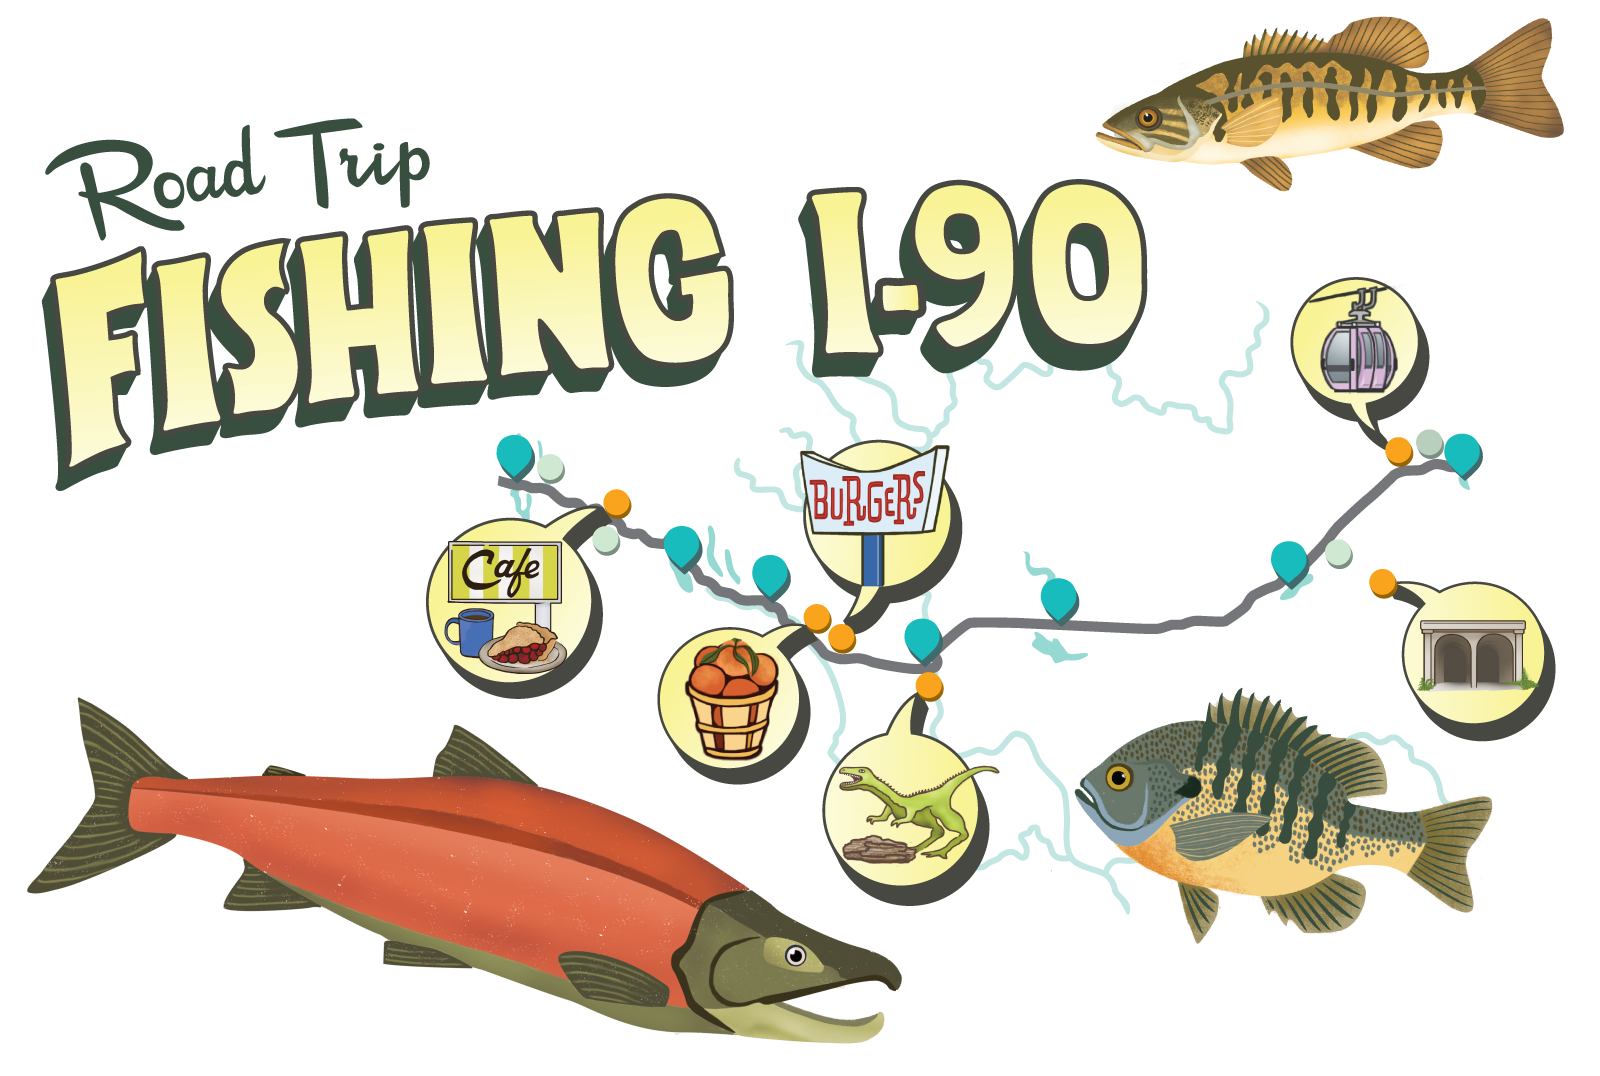
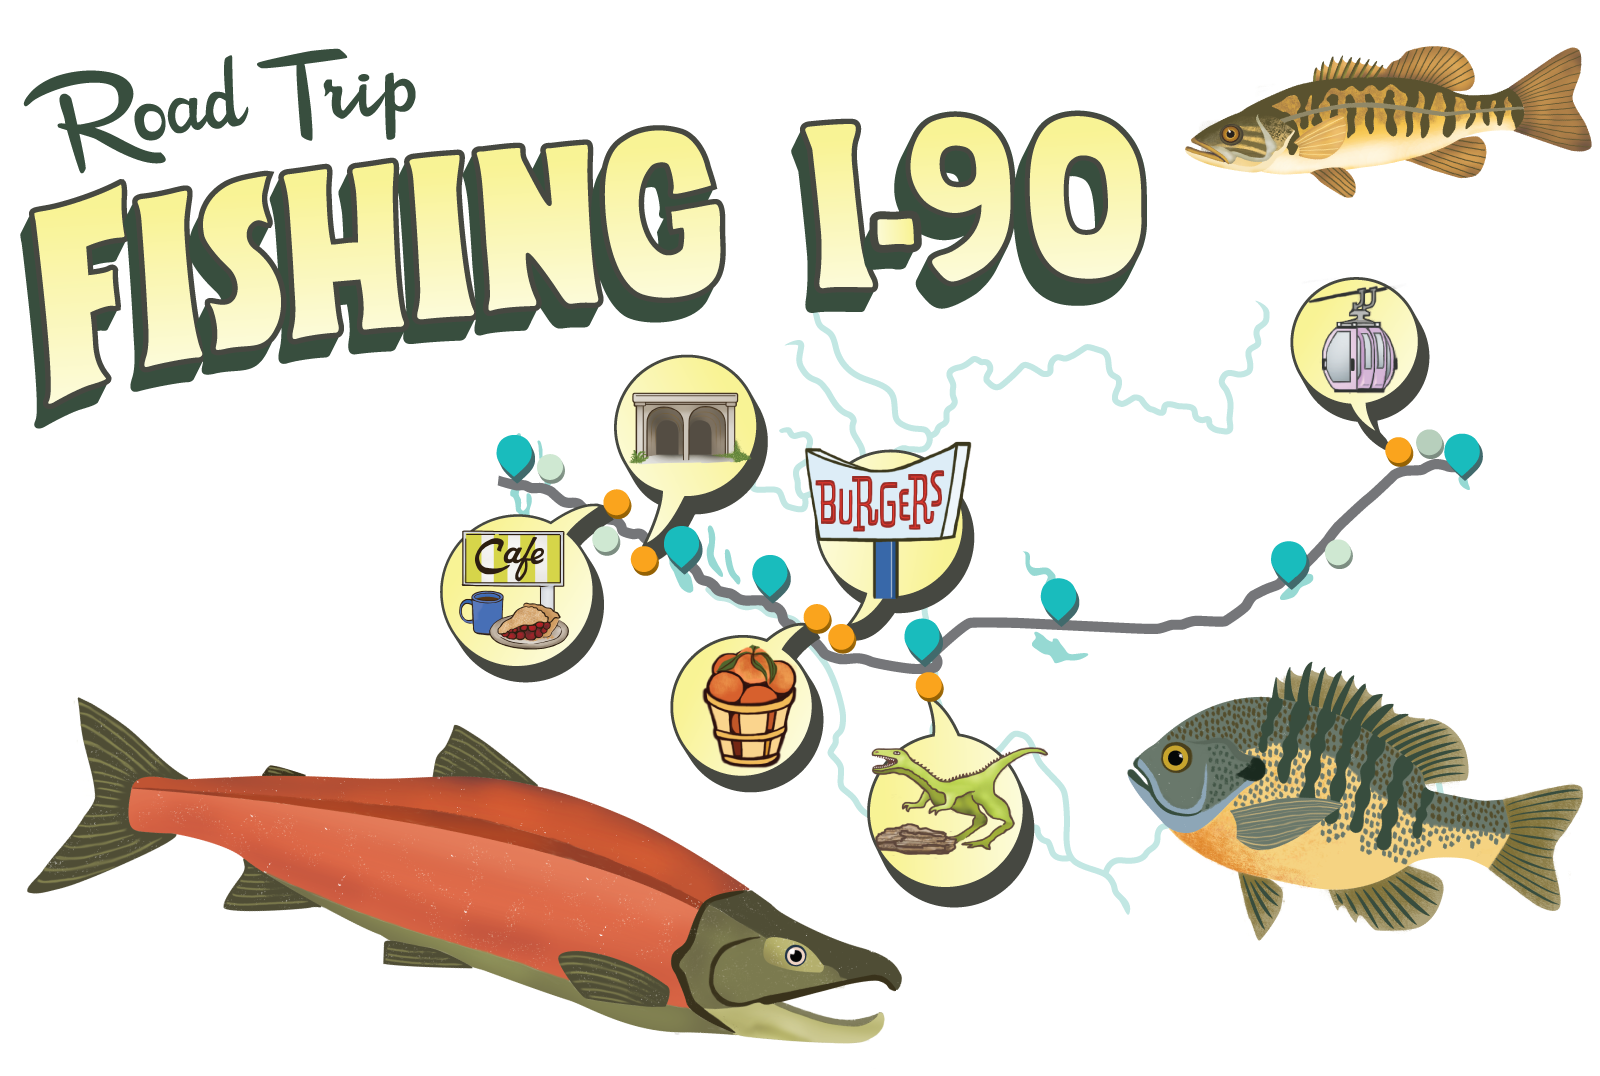
Moved JW Pioneer Trail

diff --git a/src/index.html b/src/index.html
@@ -39,6 +39,7 @@
         <div class="side-trip dot lake-sammamish"></div>
         <div class="side-trip dot rattlesnake-lake"></div>
         <div class="sightseeing dot twedes"></div>
+        <div class="sightseeing dot john-wayne-trail"></div>
         <div class="primary dot lake-keechelus"></div>
         <div class="primary dot yakima-river"></div>
         <div class="sightseeing dot thorp-fruit"></div>
@@ -48,7 +49,6 @@
         <div class="primary dot moses-lake"></div>
         <div class="primary dot sprague-lake"></div>
         <div class="side-trip dot fishtrap-lake"></div>
-        <div class="sightseeing dot john-wayne-trail"></div>
         <div class="primary dot liberty-lake"></div>
         <div class="side-trip dot spokane-river"></div>
         <div class="sightseeing dot spokane-river-trail"></div>
@@ -130,11 +130,20 @@
               
           </div>
           
-          <aside class="sidebar ad">
-            <%= t.include("partials/_ad.html", {type: "square"}) %>
-          </aside>
-          
         </div>
+
+      </section>
+      
+      <section class="sightseeing" id="john-wayne-trail">
+
+        <h3>John Wayne Pioneer Trail</h3>
+
+        <img class="icon" src="./assets/icons/john-wayne.png">
+
+        <p class="description">
+          John Wayne Pioneer Trail, located in Iron Horse State Park, offers stupendous natural scenery with camping, hiking, mountain biking and a 2.3-mile rail tunnel under Snoqualmie Pass (usually open from late spring to fall). Take Exit 32 off I-90.
+        
+        <%= t.include("_leaflet.html", { lat: 47.3971689, lng: -121.3953845 }) %>
 
       </section>
 
@@ -365,19 +374,6 @@
 
       </section>
       
-      <section class="sightseeing" id="john-wayne-trail">
-
-        <h3>John Wayne Pioneer Trail</h3>
-
-        <img class="icon" src="./assets/icons/john-wayne.png">
-
-        <p class="description">
-          John Wayne Pioneer Trail, located in Iron Horse State Park, offers stupendous natural scenery with camping, hiking, mountain biking and a 2.3-mile rail tunnel under Snoqualmie Pass (usually open from late spring to fall). Take Exit 32 off I-90.
-        
-        <%= t.include("_leaflet.html", { lat: 47.2313725, lng: -117.4622307 }) %>
-
-      </section>
-      
       <section class="side-trip" id="spokane-river">
 
         <h3>Spokane River</h3>
@@ -390,15 +386,27 @@
       </section>
       
       <section class="sightseeing" id="spokane-river-trail">
+      
+        <div class="content">
+        
+          <div class="column">
 
-        <h3>Spokane River Centennial Trail</h3>
-
-        <img class="icon left" src="./assets/icons/wagon.png">
-
-        <p class="description">
-          Spokane River Centennial Trail is a scenic 37-mile paved recreational trail that follows the Spokane River to Nine Mile Falls and continues to the Washington/Idaho state line.
+            <h3>Spokane River Centennial Trail</h3>
+    
+            <img class="icon left" src="./assets/icons/wagon.png">
+    
+            <p class="description">
+              Spokane River Centennial Trail is a scenic 37-mile paved recreational trail that follows the Spokane River to Nine Mile Falls and continues to the Washington/Idaho state line.
+              
+            <%= t.include("_leaflet.html", { lat: 47.675248, lng: -117.4124669 }) %>
+        
+          </div>
           
-        <%= t.include("_leaflet.html", { lat: 47.675248, lng: -117.4124669 }) %>
+          <aside class="sidebar ad">
+            <%= t.include("partials/_ad.html", {type: "square"}) %>
+          </aside>
+          
+        </div>
 
       </section>
       

diff --git a/src/css/scrolling.less b/src/css/scrolling.less
@@ -69,6 +69,7 @@ body {
   .make-position("lake-sammamish", 5%);
   .make-position("rattlesnake-lake", 5%);
   .make-position("twedes-cafe", 10%);
+  .make-position("john-wayne-trail", 13%);
   .make-position("lake-keechelus", 15%);
   .make-position("yakima-river", 25%);
   .make-position("thorp-fruit", 36%);
@@ -78,7 +79,6 @@ body {
   .make-position("moses-lake", 65%);
   .make-position("sprague-lake", 78%);
   .make-position("fishtrap-lake", 85%);
-  .make-position("john-wayne-trail", 88%);
   .make-position("spokane-river-trail", 97%);
   .make-position("spokane-river", 98%);
   .make-position("liberty-lake", 99%);
@@ -115,6 +115,7 @@ body {
   &.lake-sammamish { left: 6% }
   &.twedes { left: 9% }
   &.rattlesnake-lake { left: 10% }
+  &.john-wayne-trail { left: 13% }
   &.lake-keechelus { left: 15% }
   &.yakima-river { left: 25% }
   &.thorp-fruit { left: 35% }
@@ -124,7 +125,6 @@ body {
   &.moses-lake { left: 65% }
   &.sprague-lake { left: 78% }
   &.fishtrap-lake { left: 85% }
-  &.john-wayne-trail { left: 90% }
   &.spokane-river-trail { left: 95% }
   &.spokane-river { left: 97% }
   &.liberty-lake {right: 0% }

diff --git a/src/css/seed.less b/src/css/seed.less
@@ -134,6 +134,7 @@ figure.fish {
 
 .map-container {
   margin: 10px 0;
+  position: relative;
   
   .show-map {
     border-radius: 4px;
@@ -152,6 +153,13 @@ figure.fish {
     background: white;
     display: none;
     box-shadow: 0 4px 12px rgba(0, 0, 0, .2);
+    position: absolute;
+    left: 0;
+    z-index: 999;
+    
+    @media @mobile {
+      position: relative;
+    }
     
     &.show {
       display: block;

diff --git a/src/css/sections.less b/src/css/sections.less
@@ -32,6 +32,10 @@ section {
     -webkit-transform-origin: bottom left;
     transform-origin: bottom left;
     
+    @media @tablet {
+      font-size: 50px;
+    }
+    
     @media @mobile {
       font-size: 32px;
       text-shadow: 2px 2px 0 @fish-red;
